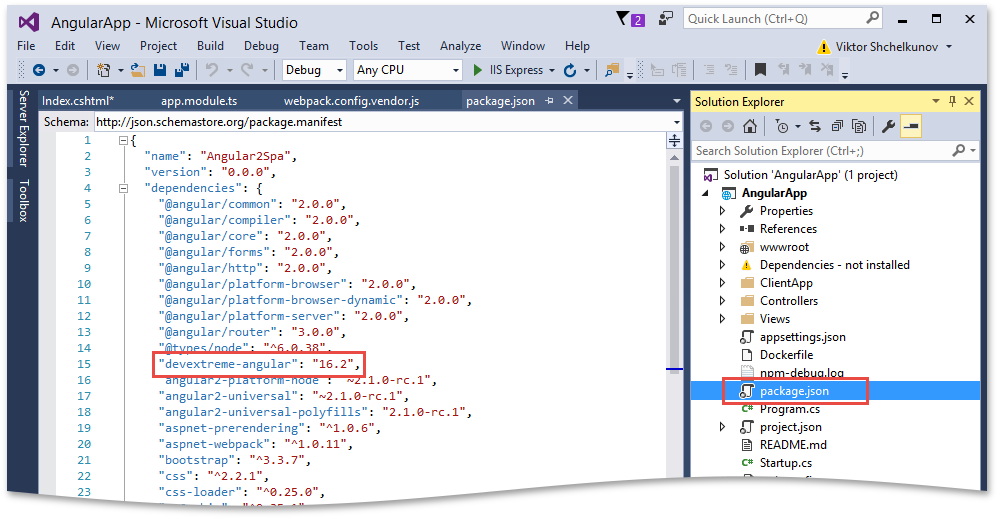
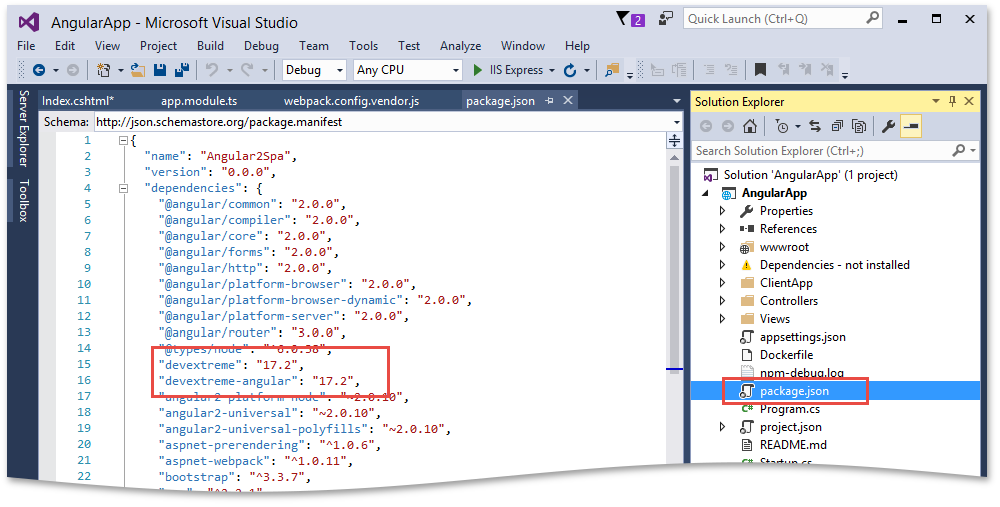
T508211 fix (#361)
* T508211 fix

* Screenshot updated

* Screenshot updated

diff --git a/concepts/50 VS Integration/5 Add DevExtreme to NET Core Angular 2 Template/2 Add npm Packages.md b/concepts/50 VS Integration/5 Add DevExtreme to NET Core Angular 2 Template/2 Add npm Packages.md
@@ -1,5 +1,5 @@
 Once the application is created, apply the following changes to the "package.json" file located in the root folder of the project.
-Add the "devextreme-angular" package to the dependencies section as illustrated in the following image.
+Add the "devextreme" and "devextreme-angular" packages to the dependencies section as illustrated in the following image.
 
 ![Add the "devextreme-angular" package to dependencies](/Content/images/doc/17_1/DevExtreme/DevExtremeAngularPackageInDependencies.png)
 

diff --git a/api-reference/10 UI Widgets/dxValidationSummary/dxValidationSummary.md b/api-reference/10 UI Widgets/dxValidationSummary/dxValidationSummary.md
@@ -46,7 +46,7 @@ You can create the **ValidationSummary** widget using one of the following appro
                 validationGroup: validationGroupName
             });
             $("#button").dxButton({
-                validationGroup: validationGroupName
+                validationGroup: validationGroupName,
                 text: 'Validate',
                 onClick: function validate (params) {
                     params.validationGroup.validate();
